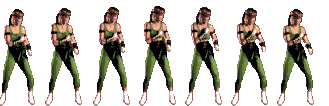
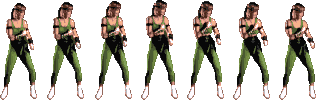
sonya special move and throw anim update

diff --git a/sonya_animations_settings.py b/sonya_animations_settings.py
@@ -4,18 +4,18 @@
 # loop,
 # if char can turn during animation,
 # frame with punch and damage ]
-sonya_move_animations = {'stand': [7, [45, 48, 47, 46, 46, 46, 50], [1] * 7, [0, 11], True, False],
+sonya_move_animations = {'stand': [7, [47, 48, 46, 46, 46, 46, 37], [1] * 7, [0, 11], True, False],
                            'walk_f': [9, [60, 43, 43, 45, 45, 47, 44, 49, 60], [1] * 9, [0, 8], True, False],
                            'walk_b': [9, [60, 43, 43, 45, 45, 47, 44, 49, 60], [1] * 9, [0, 8], True, False],
                            'jump': [3, [54, 56, 45], [3, 3, 5], [0, 2], False, False],
                            'move_jump': [8, [35, 43, 50, 60, 55, 43, 50, 68], [1] * 8, [1, 7], False, False],
                            'duck': [2, [46, 42], [1] * 4, [2, 2], False, False],
-                           'block': [2, [47, 49], [2, 1], [0, 0], False, False],
+                           'block': [3, [50, 48, 32], [2, 1], [0, 0], False, False],
 
                            'high_punch': [3, [60, 60, 71], [1, 1, 5], [], False, [[2], 'weak_hit', 30, [4, 0]]],
                            'low_punch': [2, [60, 70], [1, 5], [], False, [[1], 'weak_hit', 30, [4, 0]]],
-                           'high_kick': [5, [51, 48, 78, 74, 52], [1, 1, 1, 1, 3, 1], [], False,
-                                         [[4], 'weak_hit', 50, [6, 0]]],
+                           'high_kick': [5, [51, 48, 78, 74, 52], [1, 1, 1, 3, 1], [], False,
+                                         [[3], 'weak_hit', 50, [6, 0]]],
                            'low_kick': [5, [51, 48, 78, 83, 64], [1, 1, 1, 1, 3], [], False,
                                         [[4], 'weak_hit', 50, [6, 0]]],
                            'uppercut': [5, [51, 68, 72, 52, 78], [1, 1, 1, 6, 1], [], False,
@@ -24,17 +24,19 @@ sonya_move_animations = {'stand': [7, [45, 48, 47, 46, 46, 46, 50], [1] * 7, [0,
                                           [[3, 4], 'trip', 40, [0, 0]]],
                            'roundhouse': [6, [41, 64, 58, 77, 71, 62], [1] * 6, [], False,
                                           [[2, 3], 'heavy_hit', 70, [10, -20]]],
-                           'throw': [6, [66, 84, 61, 62, 53, 78], [1] * 6, [], False,
-                                     [[3], 'thrown', 60, [-10, -20]]],
-                           'air_kick': [2, [76, 123], [3, 3], [], False, [[1], 'heavy_hit', 40, [7, 0]]],
+                           'throw': [7, [41, 64, 69, 50, 64, 51, 51], [1] * 6, [], False,
+                                     [[2], 'thrown', 60, [-10, -20]]],
+                           'air_kick': [2, [46, 67], [2, 2], [], False, [[1], 'weak_hit', 40, [7, 0]]],
+                           'leg_throw': [6, [60, 75, 78, 65, 51, 63], [1] * 12, [], False,
+                                     [[5], 'thrown', 60, [-10, -20]]],
 
                            'weak_hit': [3, [46, 47, 58], [1] * 3, [], False, False],
                            'heavy_hit': [7, [55, 84, 84, 54, 69, 87, 104], [2, 2, 5, 2, 2, 2, 2], [], False, False],
                            'trip': [6, [73, 54, 60, 61, 68, 90], [1] * 6, [], False, False],
                            'stand_up': [5, [45, 46, 53, 72, 56], [1] * 5, [], False, False],
-                           'thrown': [7, [65, 61, 71, 63, 64, 78, 90], [1, 1, 1, 1, 1, 1, 10], [], False, False],
+                           'thrown': [6, [54, 56, 55, 66, 71, 84], [1, 1, 1, 1, 1, 5], [], False, False],
 
                            'dead': [7, [50] * 7, [2] * 7, [0, 6], False, False]}
 
 sonya_attack_animations = ['low_punch', 'high_punch', 'low_kick', 'high_kick', 'uppercut', 'sweep_kick', 'roundhouse',
-                             'throw', 'air_kick']
+                             'throw', 'air_kick', 'leg_throw']

diff --git a/update_character_img.py b/update_character_img.py
@@ -14,8 +14,6 @@ def update_img(char, enemy, side, cf, f=False):
                 char.cur_frame = char.curent_animation_settings[3][0] - 1
 
         if char.cur_frame == len(char.curent_animation_settings[2]) - 1:
-            if char.cur_anim == 'weak_hit':
-                print('---------------------------------')
             char.cur_anim = ''
             char.attack = False
             char.hit = False
@@ -56,3 +54,22 @@ def update_img(char, enemy, side, cf, f=False):
     else:
         cf.update(char.actual_coords_x,
                                  enemy.actual_coords_x + enemy.rect.width)
+
+    # NECESSARY EDITING
+    if char.cur_anim == 'leg_throw':
+        if char.cur_frame <= 5:
+            char.vector[0] = 3
+        elif char.cur_frame > 5:
+            char.vector[0] = -3
+        if char.side == 'right':
+            char.vector[0] *= -1
+
+    if char.cur_anim == 'throw' and char.cur_frame == 3 and not char.hit:
+        char.cur_anim = ''
+        char.attack = False
+        char.hit = False
+        char.vector = [0, 0]
+        char.can_turn = True
+        turn_frame(char, side)
+        char.getting_damage = False
+        update_anim(char)

diff --git a/update_anim.py b/update_anim.py
@@ -35,11 +35,15 @@ def update_anim(fighter):
 
         if fighter.attack == 'low_kick' and fighter.cur_anim != 'low_kick':
             if fighter.previos_moves:
+                if len(fighter.previos_moves) >= 2:
+                    if fighter.previos_moves[-2][0] == 'duck' and fighter.previos_moves[-1][0] == 'walk_f' \
+                            and fighter.cur_anim != 'leg_throw' and fighter.name == 'Sonya':
+                        fighter.set_anim('leg_throw')
                 if fighter.previos_moves[-1][0] == 'walk_b' and fighter.cur_anim != 'sweep_kick':
                     fighter.set_anim('sweep_kick')
             if not fighter.on_ground and fighter.cur_anim != 'air_kick' and fighter.cur_anim != 'sweep_kick':
                 fighter.set_anim('air_kick')
-            elif fighter.cur_anim != 'sweep_kick' and fighter.on_ground and fighter.cur_anim != 'sweep_kick':
+            elif fighter.cur_anim != 'sweep_kick' and fighter.on_ground and fighter.cur_anim != 'leg_throw':
                 fighter.set_anim('low_kick')
 
     else:

diff --git a/subzero_animations_settings.py b/subzero_animations_settings.py
@@ -19,7 +19,7 @@ subzero_move_animations = {'stand': [12, [51] * 12, [1] * 12, [0, 11], True, Fal
                            'uppercut': [6, [56, 60, 82, 53, 52, 55], [1, 1, 1, 6, 1, 1], [], False, [[2, 3, 4], 'heavy_hit', 60, [8, -20]]],
                            'sweep_kick': [8, [57, 55, 56, 89, 88, 53, 79, 50], [1] * 8, [], False, [[3, 4], 'trip', 40, [0, 0]]],
                            'roundhouse': [8, [57, 62, 87, 61, 53, 54, 60, 50], [1] * 8, [], False, [[2, 3], 'heavy_hit', 70, [8, -20]]],
-                           'throw': [7, [66, 84, 61, 62, 53, 78, 78], [1] * 7, [], False, [[3], 'thrown', 60, [-8, -20]]],
+                           'throw': [7, [66, 84, 61, 62, 53, 78, 78], [1] * 7, [], False, [[2], 'thrown', 60, [-8, -20]]],
                            'air_kick': [2, [41, 82], [3, 3], [], False, [[1], 'heavy_hit', 40, [7, 0]]],
                            'slide': [2, [71, 81], [1, 5], [], False, [[1], 'heavy_hit', 40, [2, -20]]],
                            

diff --git a/scorpion_animations_settings.py b/scorpion_animations_settings.py
@@ -25,7 +25,7 @@ scorpion_move_animations = {'stand': [7, [60, 58, 59, 57, 58, 59, 51], [1] * 7, 
                             'roundhouse': [8, [57, 62, 87, 61, 53, 54, 60, 50], [1] * 8, [], False,
                                            [[2, 3], 'heavy_hit', 70, [10, -20]]],
                             'throw': [7, [66, 84, 61, 62, 53, 78, 78], [1] * 7, [], False,
-                                      [[3], 'thrown', 60, [-10, -20]]],
+                                      [[2], 'thrown', 60, [-10, -20]]],
                             'air_kick': [2, [52, 82], [3, 3], [], False, [[1], 'heavy_hit', 40, [7, 0]]],
                             'teleport': [3, [48, 64, 90], [1, 2, 2], [], False, [[2], 'heavy_hit', 60, [7, -5]]],
 

diff --git a/jonny_cage_animations_settings.py b/jonny_cage_animations_settings.py
@@ -40,6 +40,7 @@ johny_cage_move_animations = {'stand': [7, [69, 67, 66, 66, 67, 68, 80], [1] * 1
                               # special move for johny kage
                               'egg_broken': [6, [86, 100, 109, 113, 113, 113], [1] * 6, [], False,
                                              [[1], 'weak_hit', 30, [4, 0]]],
+
                               'air_kick': [2, [50, 50], [3, 3], [], False, [[1], 'heavy_hit', 40, [7, 0]]],
                               'trip': [6, [77, 78, 77, 84, 82, 84], [1] * 6, [], False, False],
                               'stand_up': [5, [36, 49, 52, 78, 61], [1] * 5, [], False, False],

diff --git a/update_fighter_pos_y.py b/update_fighter_pos_y.py
@@ -10,7 +10,7 @@ def update_y(fighter, f=False):
         dif = [0, (540 - fighter.rect.height) - fighter.actual_coords_y]
         change_position(fighter, dif, 'all')
         fighter.actual_coords_y = 540 - fighter.rect.height
-        if fighter.cur_anim != 'slide':
+        if fighter.cur_anim != 'slide' and fighter.cur_anim != 'leg_throw':
             fighter.vector[0] = 0
         fighter.on_ground = 1
         fighter.vector[1] = 0

diff --git a/set_char_anim.py b/set_char_anim.py
@@ -62,6 +62,8 @@ def set_char_anim(char, anim):
             char.vector[0] = 10
         change_position(char, [dif, -200], 'all')
 
+    if anim == 'leg_throw':
+        char.frames += char.frames[::-1]
 
     if char.cur_anim != 'stand':
         if char.previos_moves and char.previos_moves[-1][0] == anim:
